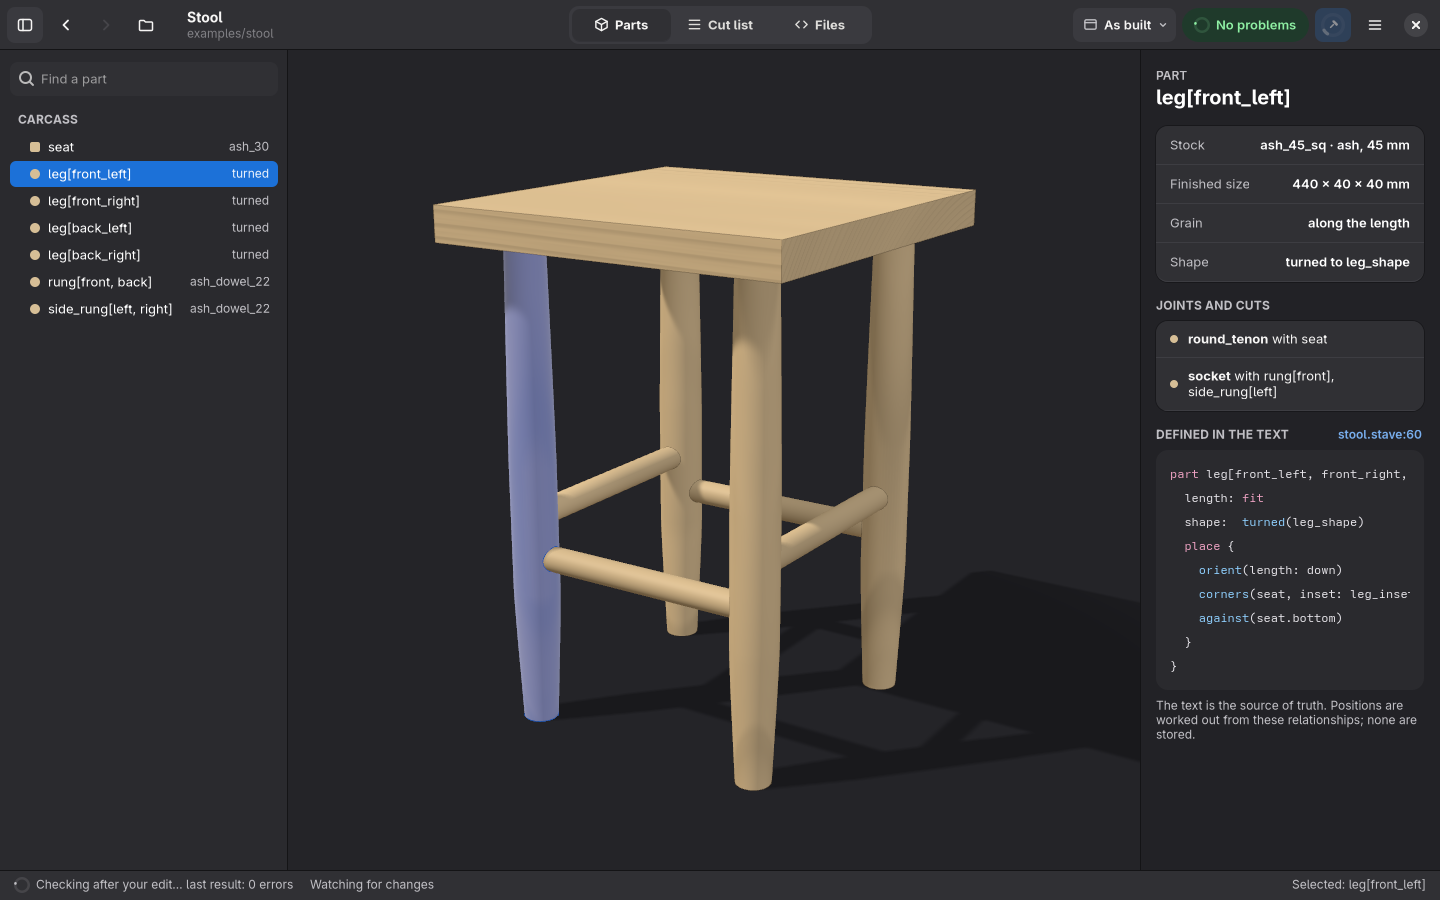
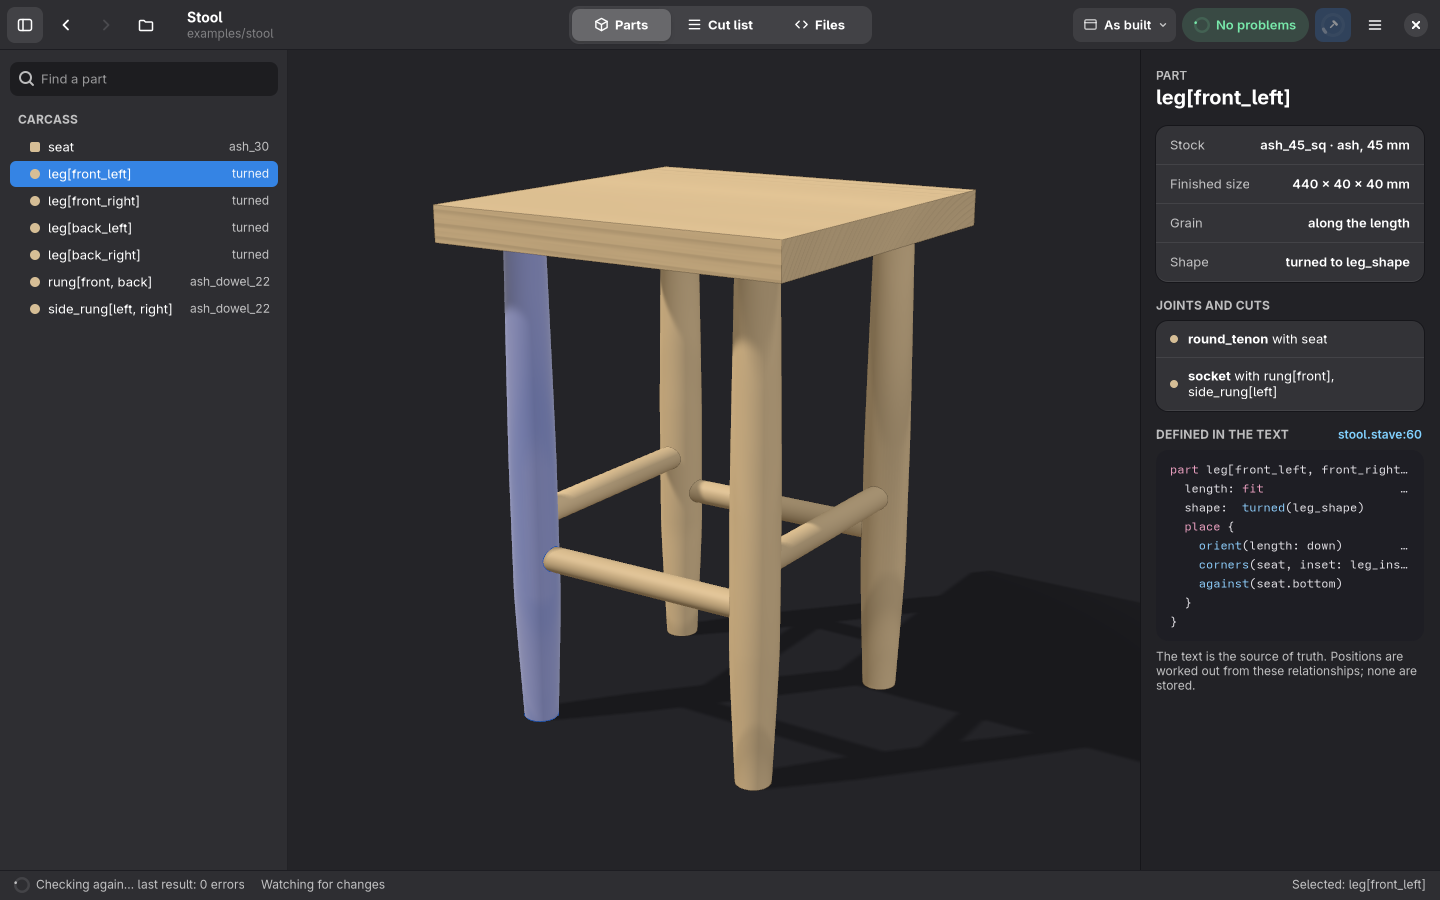
fix(viewer): dark style for the whole window; snippet lines end in an ellipsis
The window's own colours were two hard-coded sheets, light and dark,
swapped when the style manager's dark property changed. If it still read
light when the sheet loaded and the change wasn't caught, the title bar,
sidebars and status bar stayed light while libadwaita and the 3D view
turned dark. Every colour is now one of libadwaita's named colours in a
single sheet, so both styles come from it and follow the style manager
the moment it changes; only the code block is dark in both, as designed.

The 'Defined in the text' snippet was one label clipped mid-letter at
the panel's edge; each line is now its own label ending in an ellipsis
where it doesn't fit.

docs/gui.md says how to check 'Follow system' (ADW_DEBUG_COLOR_SCHEME);
the window screenshots are rendered again, with a narrow dark one.

diff --git a/crates/stave-gtk/src/ui/style.rs b/crates/stave-gtk/src/ui/style.rs
@@ -67,90 +67,44 @@ button.stave-build { min-width: 36px; min-height: 34px; padding: 0; border-radiu
 .stave-placeholder { font-size: 13px; }
 "#;
 
-/// The light colours (Main.dc.html).
-const LIGHT: &str = r#"
-window.stave-window { background: #fafafb; color: #222226; }
-.stave-header { background: #ffffff; box-shadow: inset 0 -1px #dededf; color: #222226; }
-.stave-header button.stave-icon-button:disabled { color: #9a9996; }
-.stave-header button.stave-sidebar-toggle:checked { background: #ececee; }
-.stave-title .subtitle { color: #5e5c64; }
-.stave-switcher { background: #ececee; }
-.stave-switcher > toggle { color: #3d3846; background: transparent; }
-.stave-switcher > toggle:checked { background: #ffffff; color: #222226; box-shadow: 0 1px 2px rgba(0,0,0,0.12); }
-menubutton.stave-scene > button { background: #ececee; color: #222226; }
-menubutton.stave-scene .dim { color: #5e5c64; }
-button.stave-pill.clean { background: #e0f2e8; color: #145c3a; }
-button.stave-pill.warnings { background: #fdf0d5; color: #8a5100; }
-button.stave-pill.errors { background: #fbe3e4; color: #a51d2d; }
-button.stave-pill.unknown { background: #ececee; color: #5e5c64; }
-button.stave-build { background: #1c71d8; color: #ffffff; }
-button.stave-build:hover { background: #1a65c2; }
-button.stave-build:disabled { background: #ececee; color: #77767b; }
-button.stave-build.building:disabled { background: #a7c6ef; color: #ffffff; }
+/// The colours, from libadwaita's named colours, so the light and dark
+/// styles (Main.dc.html, MainDark.dc.html) both come from this one sheet
+/// and follow the style manager the moment it changes. Only the code
+/// block is dark in both styles, as the design has it.
+const COLOURS: &str = r#"
+.stave-header { background: @headerbar_bg_color; color: @headerbar_fg_color; box-shadow: inset 0 -1px @headerbar_shade_color; }
+.stave-header button.stave-icon-button:disabled { color: alpha(currentColor, 0.45); }
+.stave-header button.stave-sidebar-toggle:checked { background: alpha(currentColor, 0.1); }
+.stave-title .subtitle, .dim { color: alpha(currentColor, 0.7); }
+menubutton.stave-scene > button { background: alpha(currentColor, 0.08); }
+menubutton.stave-scene > button:hover { background: alpha(currentColor, 0.12); }
+button.stave-pill.clean { background: alpha(@success_color, 0.15); color: @success_color; }
+button.stave-pill.warnings { background: alpha(@warning_color, 0.18); color: @warning_color; }
+button.stave-pill.errors { background: alpha(@error_color, 0.14); color: @error_color; }
+button.stave-pill.unknown { background: alpha(currentColor, 0.08); color: alpha(currentColor, 0.7); }
+button.stave-build { background: @accent_bg_color; color: @accent_fg_color; }
+button.stave-build:hover { background: mix(@accent_bg_color, @accent_fg_color, 0.1); }
+button.stave-build:disabled { background: alpha(currentColor, 0.08); color: alpha(@headerbar_fg_color, 0.45); }
+button.stave-build.building:disabled { background: alpha(@accent_bg_color, 0.45); color: @accent_fg_color; }
 
-.stave-sidebar { background: #ebebed; box-shadow: inset -1px 0 #dededf; }
-.stave-sidebar entry.stave-search { background: #ffffff; color: #222226; }
-.stave-tree > row:hover { background: rgba(0,0,0,0.05); }
-.stave-tree > row:selected { background: #1c71d8; color: #ffffff; }
-.stave-tree > row:selected .stave-detail { color: rgba(255,255,255,0.9); }
-.stave-tree .stave-detail, .stave-tree .stave-heading { color: #5e5c64; }
+.stave-sidebar { background: @sidebar_bg_color; color: @sidebar_fg_color; box-shadow: inset -1px 0 @sidebar_shade_color; }
+.stave-sidebar entry.stave-search { background: @view_bg_color; color: @view_fg_color; }
+.stave-tree > row:hover { background: alpha(currentColor, 0.06); }
+.stave-tree > row:selected { background: @accent_bg_color; color: @accent_fg_color; }
+.stave-tree > row:selected .stave-detail { color: alpha(@accent_fg_color, 0.9); }
+.stave-tree .stave-detail, .stave-tree .stave-heading { color: alpha(currentColor, 0.7); }
 
-.stave-viewport { background: #e8e5df; }
-.stave-inspector-panel { background: #fafafb; box-shadow: inset 1px 0 #dededf; }
-.stave-eyebrow, .stave-description, .stave-section, .stave-footnote, .stave-key { color: #5e5c64; }
-.stave-card { background: #ffffff; box-shadow: 0 0 0 1px rgba(0,0,0,0.08); }
-.stave-card > .stave-card-row { border-bottom: 1px solid #ededef; }
-.stave-card > button.stave-card-row { background: transparent; color: #222226; }
-.stave-card > button.stave-card-row:hover { background: rgba(0,0,0,0.04); }
-.stave-link { color: #1c71d8; }
+.stave-inspector-panel { background: @window_bg_color; color: @window_fg_color; box-shadow: inset 1px 0 @headerbar_shade_color; }
+.stave-eyebrow, .stave-description, .stave-section, .stave-footnote, .stave-key { color: alpha(currentColor, 0.7); }
+.stave-card { background: @card_bg_color; color: @card_fg_color; box-shadow: 0 0 0 1px @card_shade_color; }
+.stave-card > .stave-card-row { border-bottom: 1px solid alpha(currentColor, 0.08); }
+.stave-card > button.stave-card-row { background: transparent; color: inherit; }
+.stave-card > button.stave-card-row:hover { background: alpha(currentColor, 0.05); }
+.stave-link { color: @accent_color; }
 .stave-code { background: #1e1e24; color: #e7e5ea; }
 
-.stave-statusbar { background: #ffffff; box-shadow: inset 0 1px #dededf; color: #5e5c64; }
-.stave-floating { background: rgba(255,255,255,0.92); box-shadow: 0 2px 10px rgba(0,0,0,0.12); color: #222226; }
-.stave-floating .stave-key { color: #5e5c64; }
-"#;
-
-/// The dark colours (MainDark.dc.html).
-const DARK: &str = r#"
-window.stave-window { background: #222226; color: #f6f5f4; }
-.stave-header { background: #303034; box-shadow: inset 0 -1px #141416; color: #f6f5f4; }
-.stave-header button.stave-icon-button:disabled { color: #77767b; }
-.stave-header button.stave-sidebar-toggle:checked { background: #3a3a3f; }
-.stave-title .subtitle { color: #c0bfc4; }
-.stave-switcher { background: #3a3a3f; }
-.stave-switcher > toggle { color: #deddda; background: transparent; }
-.stave-switcher > toggle:checked { background: #303034; color: #f6f5f4; box-shadow: 0 1px 2px rgba(0,0,0,0.12); }
-menubutton.stave-scene > button { background: #3a3a3f; color: #f6f5f4; }
-menubutton.stave-scene .dim { color: #c0bfc4; }
-button.stave-pill.clean { background: #1f3a2b; color: #8ff0a4; }
-button.stave-pill.warnings { background: #45361a; color: #ffc96b; }
-button.stave-pill.errors { background: #4a2226; color: #ff8f96; }
-button.stave-pill.unknown { background: #3a3a3f; color: #c0bfc4; }
-button.stave-build { background: #1c71d8; color: #ffffff; }
-button.stave-build:hover { background: #2a7de1; }
-button.stave-build:disabled { background: #3a3a3f; color: #77767b; }
-button.stave-build.building:disabled { background: #2c4f7c; color: #ffffff; }
-
-.stave-sidebar { background: #2a2a2e; box-shadow: inset -1px 0 #141416; }
-.stave-sidebar entry.stave-search { background: #303034; color: #f6f5f4; }
-.stave-tree > row:hover { background: rgba(255,255,255,0.05); }
-.stave-tree > row:selected { background: #1c71d8; color: #ffffff; }
-.stave-tree > row:selected .stave-detail { color: rgba(255,255,255,0.9); }
-.stave-tree .stave-detail, .stave-tree .stave-heading { color: #c0bfc4; }
-
-.stave-viewport { background: #242428; }
-.stave-inspector-panel { background: #222226; box-shadow: inset 1px 0 #141416; }
-.stave-eyebrow, .stave-description, .stave-section, .stave-footnote, .stave-key { color: #c0bfc4; }
-.stave-card { background: #303034; box-shadow: 0 0 0 1px rgba(0,0,0,0.3); }
-.stave-card > .stave-card-row { border-bottom: 1px solid #3d3d42; }
-.stave-card > button.stave-card-row { background: transparent; color: #f6f5f4; }
-.stave-card > button.stave-card-row:hover { background: rgba(255,255,255,0.05); }
-.stave-link { color: #78aeed; }
-.stave-code { background: #2a2a2e; color: #e7e5ea; }
-
-.stave-statusbar { background: #303034; box-shadow: inset 0 1px #141416; color: #c0bfc4; }
-.stave-floating { background: rgba(48,48,52,0.94); box-shadow: 0 2px 10px rgba(0,0,0,0.3); color: #f6f5f4; }
-.stave-floating .stave-key { color: #c0bfc4; }
+.stave-statusbar { background: @headerbar_bg_color; color: alpha(@headerbar_fg_color, 0.7); box-shadow: inset 0 1px @headerbar_shade_color; }
+.stave-floating { background: alpha(@view_bg_color, 0.94); color: @view_fg_color; box-shadow: 0 2px 10px alpha(black, 0.15); }
 "#;
 
 /// The snippet's colours: keyword, type or call, number, string, comment.
@@ -193,29 +147,15 @@ pub fn status_dot(tone: stave_app::session::Tone) -> gdk::RGBA {
     )
 }
 
-/// Installs the window's style for `display`, and keeps the colours in
-/// step with the light or dark style.
+/// Installs the window's style for `display`. Every colour is one of
+/// libadwaita's named colours, so nothing needs swapping when the style
+/// turns light or dark.
 pub fn install(display: &gdk::Display) {
-    let shared = gtk::CssProvider::new();
-    shared.load_from_string(SHARED);
+    let provider = gtk::CssProvider::new();
+    provider.load_from_string(&format!("{SHARED}{COLOURS}"));
     gtk::style_context_add_provider_for_display(
         display,
-        &shared,
-        gtk::STYLE_PROVIDER_PRIORITY_APPLICATION,
-    );
-    let colours = gtk::CssProvider::new();
-    let manager = adw::StyleManager::default();
-    let load = {
-        let colours = colours.clone();
-        move |manager: &adw::StyleManager| {
-            colours.load_from_string(if manager.is_dark() { DARK } else { LIGHT });
-        }
-    };
-    load(&manager);
-    manager.connect_dark_notify(load);
-    gtk::style_context_add_provider_for_display(
-        display,
-        &colours,
+        &provider,
         gtk::STYLE_PROVIDER_PRIORITY_APPLICATION,
     );
 }

diff --git a/crates/stave-gtk/src/ui/inspector.rs b/crates/stave-gtk/src/ui/inspector.rs
@@ -264,54 +264,61 @@ impl Inspector {
         });
         heading.append(&link);
         section.append(&heading);
-        let mut markup = String::new();
-        for (index, line) in source.lines.iter().enumerate() {
-            if index > 0 {
-                markup.push('\n');
-            }
-            for token in line {
-                let text = gtk::glib::markup_escape_text(&token.text);
-                let colour = match token.class {
-                    TokenClass::Plain => None,
-                    TokenClass::Keyword => Some(CODE.keyword),
-                    TokenClass::Type | TokenClass::Function => Some(CODE.name),
-                    TokenClass::Number => Some(CODE.number),
-                    TokenClass::Text => Some(CODE.text),
-                    TokenClass::Comment => Some(CODE.comment),
-                };
-                match colour {
-                    Some(colour) => {
-                        markup.push_str(&format!("<span foreground=\"{colour}\">{text}</span>"));
-                    }
-                    None => markup.push_str(&text),
-                }
-            }
-        }
-        if source.cut_short {
-            markup.push_str("\n…");
-        }
-        let code = gtk::Label::builder()
-            .use_markup(true)
-            .label(&markup)
-            .xalign(0.0)
-            .build();
-        let attributes = gtk::pango::AttrList::new();
-        attributes.insert(gtk::pango::AttrFloat::new_line_height(1.6));
-        code.set_attributes(Some(&attributes));
-        let frame = gtk::ScrolledWindow::builder()
-            .vscrollbar_policy(gtk::PolicyType::Never)
-            .hscrollbar_policy(gtk::PolicyType::External)
-            .propagate_natural_height(true)
-            .child(&code)
+        // One label per line, each ending in "…" where it doesn't fit, so
+        // no letter is ever cut in half.
+        let code = gtk::Box::builder()
+            .orientation(gtk::Orientation::Vertical)
+            .spacing(4)
             .css_classes(["stave-code"])
             .build();
-        section.append(&frame);
+        let mut lines: Vec<String> = source.lines.iter().map(|line| line_markup(line)).collect();
+        if source.cut_short {
+            lines.push("…".to_owned());
+        }
+        for markup in lines {
+            code.append(
+                &gtk::Label::builder()
+                    .use_markup(true)
+                    .label(if markup.is_empty() {
+                        " "
+                    } else {
+                        markup.as_str()
+                    })
+                    .xalign(0.0)
+                    .ellipsize(gtk::pango::EllipsizeMode::End)
+                    .build(),
+            );
+        }
+        section.append(&code);
         section.append(&label(
             "The text is the source of truth. Positions are worked out from these relationships; none are stored.",
             &["stave-footnote"],
         ));
         section
     }
+}
+
+/// One line of a snippet as Pango markup, coloured by token.
+fn line_markup(line: &[stave_app::inspect::Token]) -> String {
+    let mut markup = String::new();
+    for token in line {
+        let text = gtk::glib::markup_escape_text(&token.text);
+        let colour = match token.class {
+            TokenClass::Plain => None,
+            TokenClass::Keyword => Some(CODE.keyword),
+            TokenClass::Type | TokenClass::Function => Some(CODE.name),
+            TokenClass::Number => Some(CODE.number),
+            TokenClass::Text => Some(CODE.text),
+            TokenClass::Comment => Some(CODE.comment),
+        };
+        match colour {
+            Some(colour) => {
+                markup.push_str(&format!("<span foreground=\"{colour}\">{text}</span>"));
+            }
+            None => markup.push_str(&text),
+        }
+    }
+    markup
 }
 
 /// A rounded card holding rows.

diff --git a/docs/gui.md b/docs/gui.md
@@ -36,6 +36,15 @@ the problems list), `--scene NAME`, `--explode AMOUNT`, `--size WxH`.
 Screenshot only: `--checking` holds a second check running (the pill's
 spinner), `--building` presses the build button and holds its check.
 
+To check that "Follow system" follows the system, set the preference where
+libadwaita reads it (`ADW_DEBUG_COLOR_SCHEME` stands in for the desktop's
+settings portal, which otherwise answers with this desktop's own choice):
+
+```
+ADW_DEBUG_COLOR_SCHEME=prefer-light tools/window-shot light.png examples/clothing_cabinet --theme system
+ADW_DEBUG_COLOR_SCHEME=prefer-dark  tools/window-shot dark.png  examples/clothing_cabinet --theme system
+```
+
 ## Layers
 
 All behaviour lives in `stave-app`; `stave-gtk` only lays out widgets and
@@ -49,7 +58,7 @@ forwards what people do.
 | `stave-app` | `focus`, `view` | Focus mode, problems as rows, posing at a contact (unchanged). |
 | `stave-gtk` | `ui/mod.rs` | The window: owns the `Session`, dispatches commands, redraws on events, runs checks on a worker thread, and keeps what only the 3D view needs (camera, renderer, focus mode's scrub, the "Open it" slider). |
 | `stave-gtk` | `ui/header.rs`, `tree.rs`, `inspector.rs`, `chrome.rs` | The title bar; the parts sidebar; the inspector; the status bar, motion bar, problems list and placeholder pages. |
-| `stave-gtk` | `ui/icons.rs`, `style.rs` | The design's icons drawn from SVG path data in the text colour; the CSS, light and dark. |
+| `stave-gtk` | `ui/icons.rs`, `style.rs` | The design's icons drawn from SVG path data in the text colour; one stylesheet whose colours are all libadwaita's named colours (`@headerbar_bg_color`, `@sidebar_bg_color`, `@card_bg_color`, `@accent_bg_color`, `@success_color`, ...), so light and dark both come from it and follow the style manager the moment it changes; only the code block is dark in both. |
 
 ## The session contract
 
@@ -147,7 +156,8 @@ PDF doesn't exist yet, and the button says so honestly.
   that sends `Command::GoToSource`.
 - **3D view**: click to select (`Command::Select`), F frames, Escape
   leaves focus or clears the selection. The backdrop follows the style
-  (#e8e5df light, #242428 dark). The floating motion bar opens the
+  (#e8e5df light, #242428 dark, chosen when each frame is drawn and
+  redrawn when the style changes). The floating motion bar opens the
   selection's door or drawer, or swings a selected problem's motion.
 - **Narrow windows**: below 1100 sp the parts sidebar folds away (the
   sidebar button shows it over the view); below 860 sp the inspector
